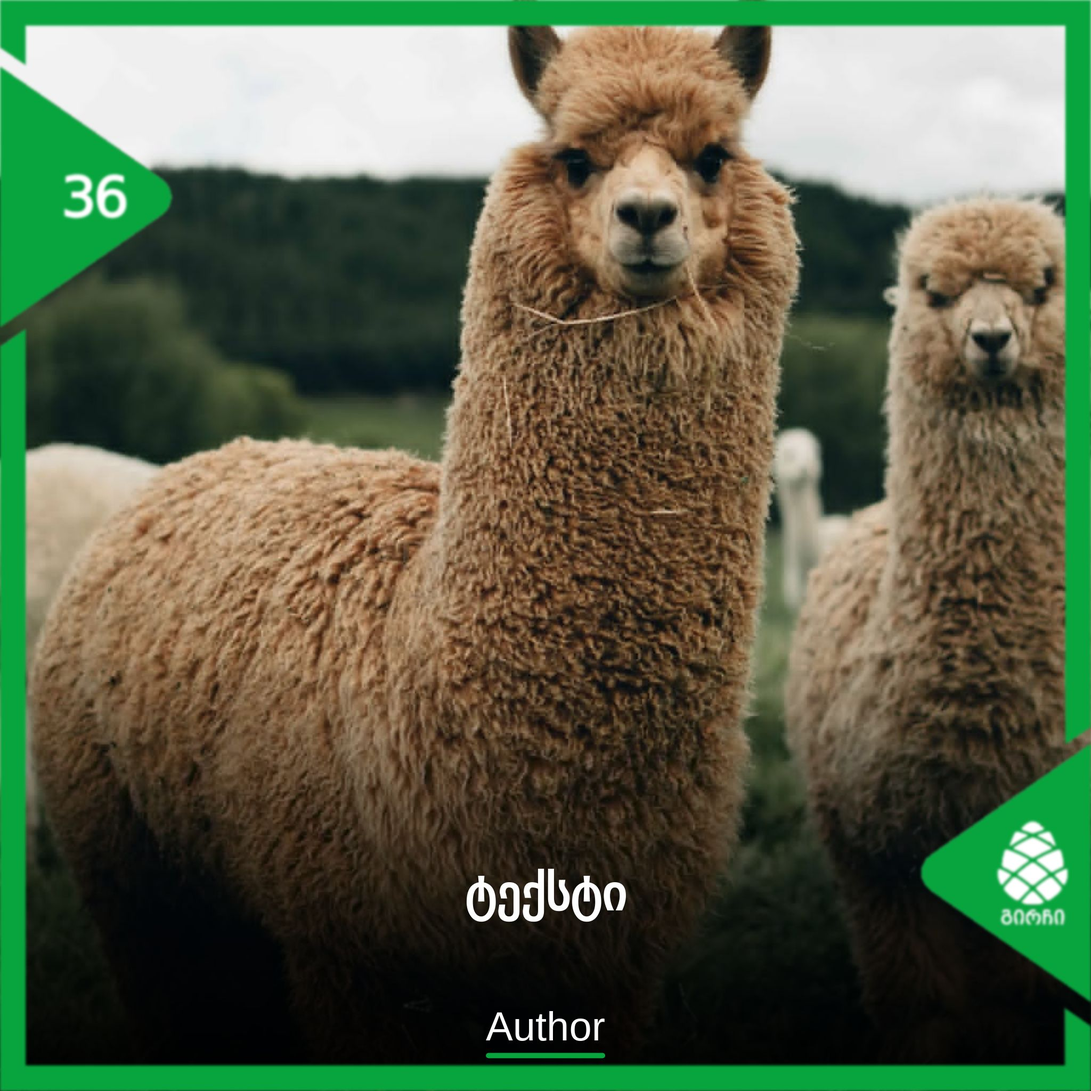
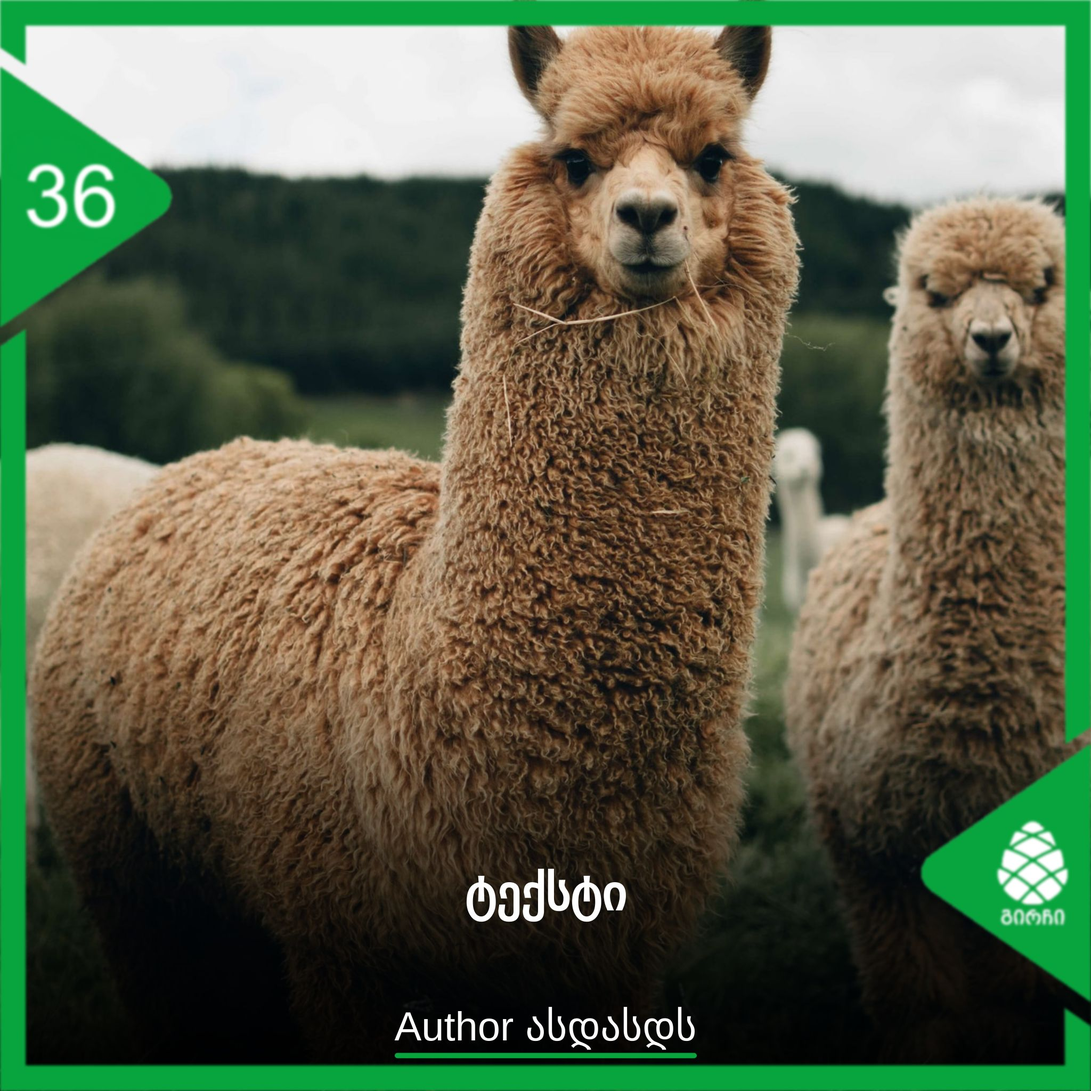
fixed number size on the image border

diff --git a/app.js b/app.js
@@ -28,7 +28,7 @@ app.set("view engine", "pug");
 app.use("/assets", express.static("assets"));
 
 app.get("/", upload.single("image"), (req, res) => {
-  res.render(__dirname + "/snippet/create-post", {qs: req.query, image: `./assets/serverImages/image.png`})
+  res.render(__dirname + "/snippet/create-post", {qs: req.query, image: `./assets/serverImages/image.jpg`})
 });
 
 

diff --git a/assets/post/css/post.css b/assets/post/css/post.css
@@ -44,6 +44,12 @@ body {
   object-fit: cover;
 }
 
+.number {
+  position: absolute;
+  color: blue;
+  font-size: 2rem;
+}
+
 .text {
   width: 100%;
   height: 90%;
